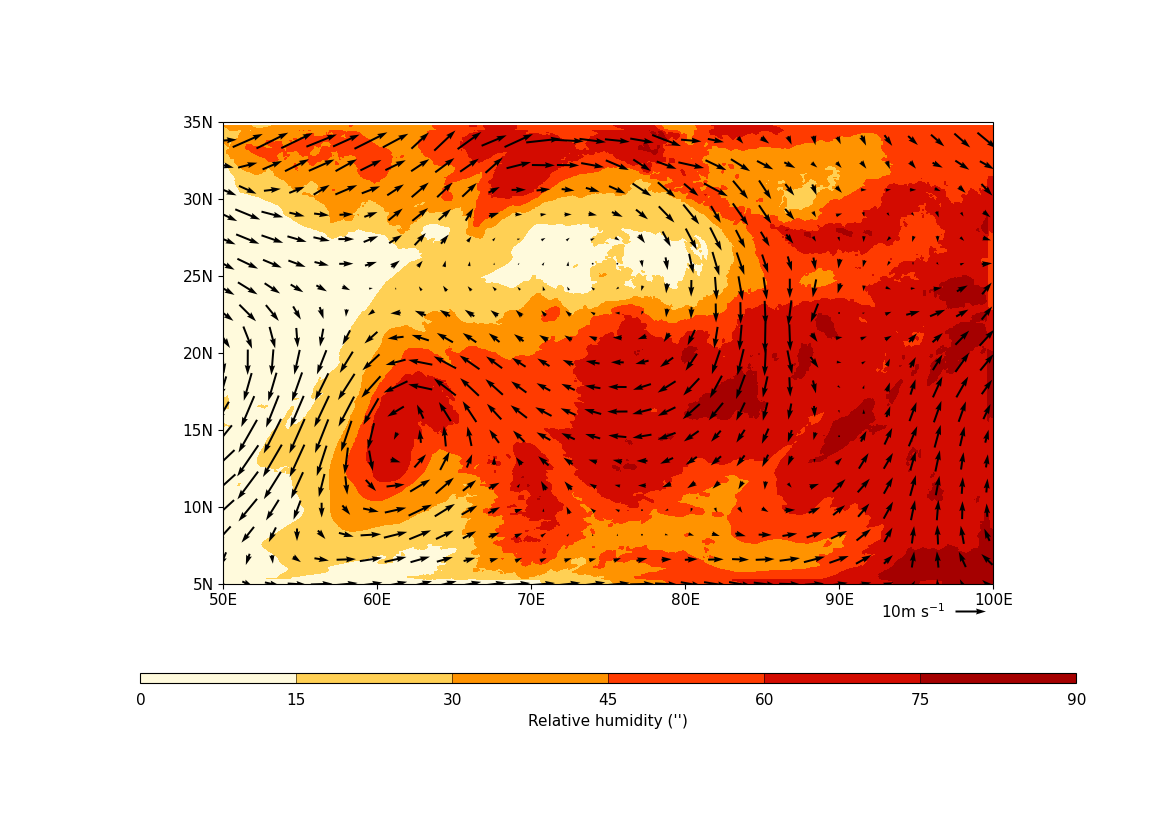
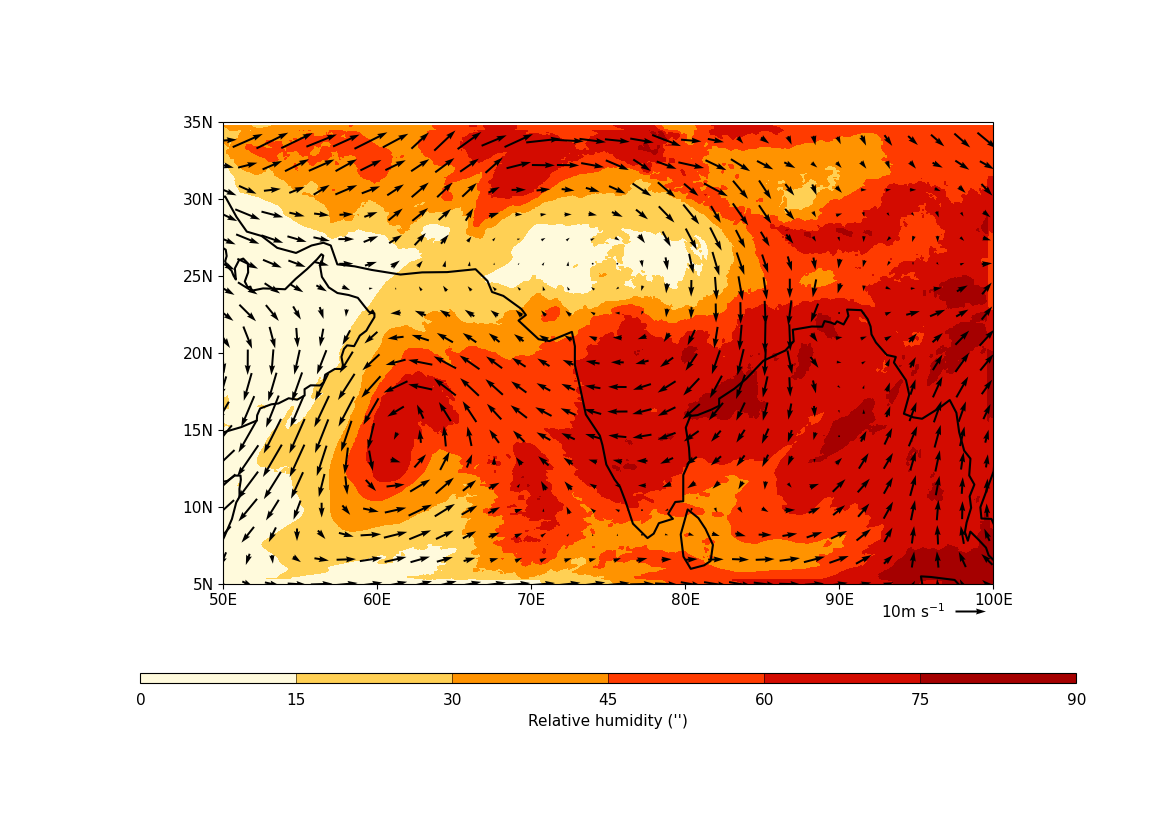
Dealt with another couple of issue with rotated pole via CANARI example

diff --git a/cfplot/contour.py b/cfplot/contour.py
@@ -43,6 +43,7 @@ from .colorbar import cbar
 from .layout_runtime import (
     apply_axes,
     ensure_xy_viewport,
+    gclose,
     set_plot_limits,
 )
 from .map_runtime import MapSet, ensure_map_viewport
@@ -279,6 +280,13 @@ class ContourLayout:
             xticklabels=xticklabels,
             yticklabels=yticklabels,
         )
+
+
+def _finalize_non_session_plot() -> None:
+    """Legacy parity: auto-save/show and close when not in an explicit session."""
+    session_open = bool(getattr(plotvars, "_contour_session_open", False))
+    if not session_open:
+        gclose(view=True)
 
 
 class ColourScale:
@@ -1102,6 +1110,21 @@ def _render_rotated_grid_axes(
         user_gset=0,
     )
 
+    # Rotated-grid labels are drawn manually as text; hide the base
+    # index-space ticks/labels to avoid a duplicate numeric axis.
+    plotvars.plot.set_xticks([])
+    plotvars.plot.set_yticks([])
+    plotvars.plot.tick_params(
+        bottom=False,
+        top=False,
+        left=False,
+        right=False,
+        labelbottom=False,
+        labeltop=False,
+        labelleft=False,
+        labelright=False,
+    )
+
     if continents:
         import cartopy.io.shapereader as shpreader
         import shapefile
@@ -1440,6 +1463,46 @@ def _render_ptype6_rotated_pole(
                 ylabel=kwargs.get("ylabel", None),
             )
 
+    if plotvars.proj == "cyl" and plotvars.mymap is not None:
+        feature = cfeature.NaturalEarthFeature(
+            name="land",
+            category="physical",
+            scale=plotvars.resolution,
+            facecolor="none",
+        )
+        plotvars.mymap.add_feature(
+            feature,
+            edgecolor=plotvars.continent_color or "k",
+            linewidth=plotvars.continent_thickness or 1.5,
+            linestyle=plotvars.continent_linestyle or "solid",
+            zorder=kwargs.get("zorder", 1),
+        )
+
+        if plotvars.ocean_color is not None:
+            plotvars.mymap.add_feature(
+                cfeature.OCEAN,
+                edgecolor="face",
+                facecolor=plotvars.ocean_color,
+                zorder=plotvars.feature_zorder,
+            )
+        if plotvars.land_color is not None:
+            plotvars.mymap.add_feature(
+                cfeature.LAND,
+                edgecolor="face",
+                facecolor=plotvars.land_color,
+                zorder=plotvars.feature_zorder,
+            )
+        if plotvars.lake_color is not None:
+            plotvars.mymap.add_feature(
+                cfeature.LAKES,
+                edgecolor="face",
+                facecolor=plotvars.lake_color,
+                zorder=plotvars.feature_zorder,
+            )
+
+        if kwargs.get("grid", plotvars.grid):
+            MapSet(plotvars).draw_grid()
+
     if kwargs.get("colorbar", True) and (fill or blockfill):
         cbar(
             labels=cbar_labels,
@@ -1475,25 +1538,7 @@ def _render_ptype6_rotated_pole(
             title_fontweight=plotvars.title_fontweight,
         )
 
-    file = plotvars.file
-    session_open = bool(getattr(plotvars, "_contour_session_open", False))
-    if file is not None and not session_open:
-        saveargs = {}
-        if plotvars.tight:
-            saveargs = {"bbox_inches": "tight"}
-        if os.path.splitext(file)[1].lower() not in (".ps", ".eps", ".png", ".pdf"):
-            file = file + ".png"
-        figure = plotvars.master_plot or getattr(plotvars.plot, "figure", None)
-        if figure is not None:
-            figure.savefig(
-                file,
-                orientation=plotvars.orientation,
-                dpi=plotvars.dpi,
-                **saveargs,
-            )
-            import matplotlib.pyplot as _plt
-
-            _plt.close(figure)
+    _finalize_non_session_plot()
 
     plotvars._contour_animation_artists = frame_artists
     return True
@@ -2056,24 +2101,6 @@ def _render_with_new_xy(f: Any, x: Any, y: Any, kwargs: dict[str, Any]) -> bool:
             title=colorbar_title,
         )
 
-    file = plotvars.file
-    session_open = bool(getattr(plotvars, "_contour_session_open", False))
-    if file is not None and not session_open:
-        saveargs = {}
-        if plotvars.tight:
-            saveargs = {"bbox_inches": "tight"}
-        if os.path.splitext(file)[1].lower() not in (".ps", ".eps", ".png", ".pdf"):
-            file = file + ".png"
-        figure = plotvars.master_plot or getattr(plotvars.plot, "figure", None)
-        if figure is not None:
-            figure.savefig(
-                file,
-                orientation=plotvars.orientation,
-                dpi=plotvars.dpi,
-                **saveargs,
-            )
-            plot.close(figure)
-
     if data.ptype == 1:
         title = kwargs.get("title", "") or ""
         animation = bool(kwargs.get("animation", False))
@@ -2099,6 +2126,8 @@ def _render_with_new_xy(f: Any, x: Any, y: Any, kwargs: dict[str, Any]) -> bool:
             fontsize=plotvars.title_fontsize,
             fontweight=plotvars.title_fontweight,
         )
+
+    _finalize_non_session_plot()
 
     return True
 

diff --git a/cfplot/layout_runtime.py b/cfplot/layout_runtime.py
@@ -101,7 +101,6 @@ def gclose(view: bool = True) -> None:
         if view and (plotvars.viewer == "matplotlib" or interactive):
             matplotlib.pyplot.ion()
             plot.show()
-            plot.close(figure)
         elif not view:
             plot.close(figure)
 
@@ -125,6 +124,8 @@ def gclose(view: bool = True) -> None:
 
 def ensure_xy_viewport() -> None:
     """Ensure a Cartesian viewport exists, matching legacy gopen/gpos behavior."""
+    _reset_closed_figure_state()
+
     if plotvars.master_plot is None:
         _open_figure(user_plot=0)
 
@@ -275,6 +276,8 @@ def _open_figure(
 
 def _select_position(pos: int) -> None:
     """Select subplot position in the contour-owned figure state."""
+    _reset_closed_figure_state()
+
     if plotvars.master_plot is None:
         _open_figure(user_plot=0)
 
@@ -316,6 +319,26 @@ def _select_position(pos: int) -> None:
     plotvars.graph_ymin = None
     plotvars.graph_ymax = None
     plotvars.titles_con_called = False
+
+
+def _reset_closed_figure_state() -> None:
+    """Drop stale figure/axes handles after a window has been closed."""
+    figure = plotvars.master_plot
+    if figure is None:
+        return
+
+    try:
+        alive = matplotlib.pyplot.fignum_exists(figure.number)
+    except Exception:
+        alive = False
+
+    if alive:
+        return
+
+    plotvars.master_plot = None
+    plotvars.plot = None
+    plotvars.mymap = None
+    plotvars.gpos_called = False
 
 
 def _apply_xy_axes(

diff --git a/tests/unit/test_contour_boundary.py b/tests/unit/test_contour_boundary.py
@@ -50,3 +50,25 @@ def test_con_falls_back_when_new_path_declines(monkeypatch):
 
     with pytest.raises(NotImplementedError, match="not implemented"):
         contour.con(f=np.array([[1.0, 2.0], [3.0, 4.0]]), lines=False)
+
+
+def test_finalize_non_session_plot_calls_gclose(monkeypatch):
+    calls: list[bool] = []
+
+    monkeypatch.setattr(contour.plotvars, "_contour_session_open", False)
+    monkeypatch.setattr(contour, "gclose", lambda view=True: calls.append(view))
+
+    contour._finalize_non_session_plot()
+
+    assert calls == [True]
+
+
+def test_finalize_non_session_plot_skips_when_session_open(monkeypatch):
+    calls: list[bool] = []
+
+    monkeypatch.setattr(contour.plotvars, "_contour_session_open", True)
+    monkeypatch.setattr(contour, "gclose", lambda view=True: calls.append(view))
+
+    contour._finalize_non_session_plot()
+
+    assert calls == []

diff --git a/tests/test_canari.py b/tests/test_canari.py
@@ -4,24 +4,24 @@ import cf
 import pytest
 
 import cfplot as cfp
+from tests.integration.test_contour_plot_examples import _configure_example_output
 
 
-# Use available test data from docs directory
-DATA_DIR = Path(__file__).parent.parent / "docs" / "source" / "data"
-DF = DATA_DIR / "tas_A1.nc"
+# This is a specific test for a bug report
+DATA_DIR = Path(__file__).parent / "data"
+DF = DATA_DIR / "bnl_tmp_NAEW.nc"
 
 
 @pytest.mark.integration
[email redacted](reason="Test data handling in progress")
-def test_simple():
+def test_canari_1():
     if not DF.exists():
         pytest.skip(f"Missing integration dataset: {DF}")
-
+    _configure_example_output("canari_1")
     flds = cf.read(str(DF))
     f = flds[0]
-    field = f[0, 0, :, :]
-    cfp.con(field)
-
+    field = f[0, 3, :, :]
+    cfp.mapset(proj="rotated")
+    cfp.con(field, lines=False)
 
 
 

diff --git a/cfplot/map_runtime.py b/cfplot/map_runtime.py
@@ -385,7 +385,13 @@ class MapSet:
 def ensure_map_viewport() -> None:
     """Ensure a map viewport exists without resetting an existing map axes."""
     if plotvars.mymap is None:
-        from .layout_runtime import _open_figure, _select_position
+        from .layout_runtime import (
+            _open_figure,
+            _reset_closed_figure_state,
+            _select_position,
+        )
+
+        _reset_closed_figure_state()
 
         if plotvars.master_plot is None:
             _open_figure(user_plot=0)

diff --git a/tests/integration/test_contour_plot_examples.py b/tests/integration/test_contour_plot_examples.py
@@ -561,6 +561,9 @@ def test_example_38_robinson_projection():
     _assert_reference_match("38")
 
 
+
+
+
 @pytest.mark.integration
 def test_example_numpy_arrays():
     """Test contour with raw numpy arrays."""